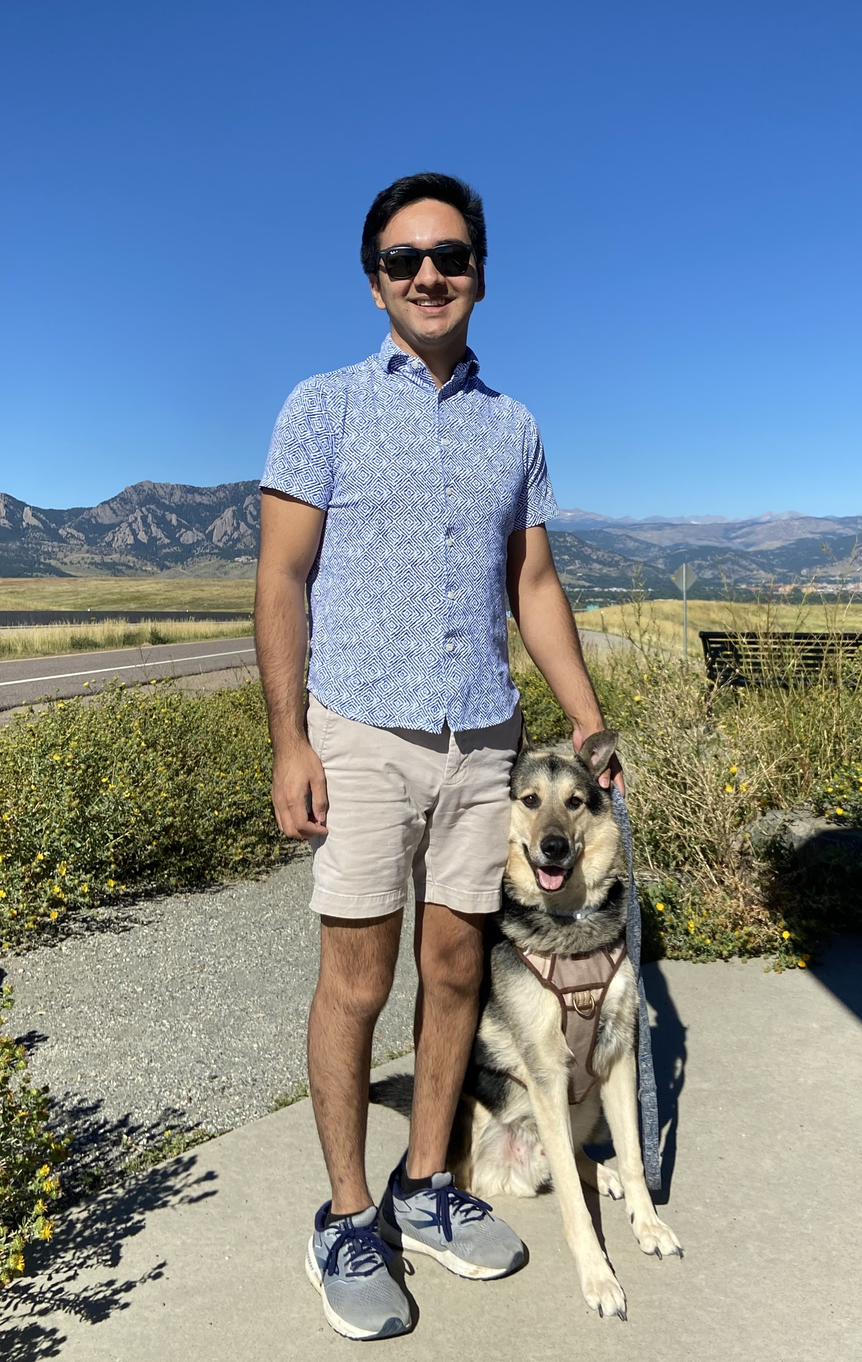
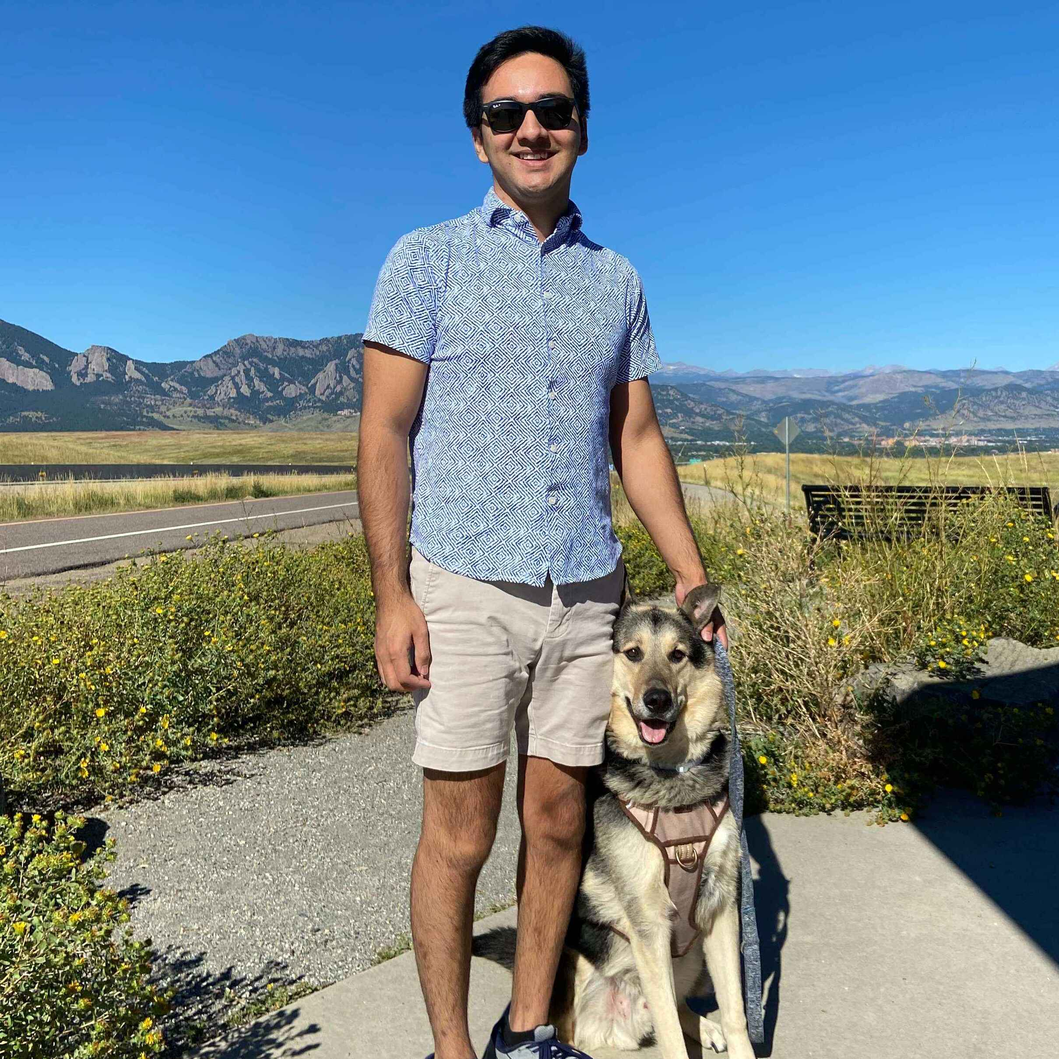
Updated profile picture and fit it with a circular crop

diff --git a/src/components/AboutMe.jsx b/src/components/AboutMe.jsx
@@ -10,8 +10,14 @@ const Container = styled.div`
   width: 100vw;
 `;
 
+const CircularImgContainer = styled.div`
+  border-radius: 50%;
+  overflow: hidden;
+`;
+
 const StyledImg = styled.img`
   width: 400px;
+  object-fit: scale-down;
 `;
 
 const Content = styled.div`
@@ -27,7 +33,9 @@ function AboutMe() {
   return (
     <Container>
       <Content>
-        <StyledImg src={ProfilePicture} alt="Daniel Perez" />
+        <CircularImgContainer>
+          <StyledImg src={ProfilePicture} alt="Daniel Perez" />
+        </CircularImgContainer>
         <CenteredText>
           My name is Daniel Perez and I am a Java and Android Developer based out of Denver,
           Colorado.
